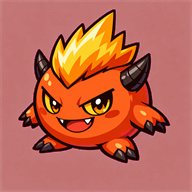
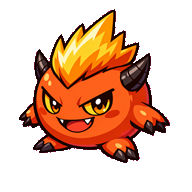
fix: GUOI 슬랙 릴리스(GOI 오마주) + 조작 HUD 인게임화 + foe-fire 배경 투명화 (푸시 금지)
GUOI: 걸쇠가 영구 유지돼 전진 이동이 불가능하던 문제 — Getting Over It 참조로
걸쇠를 "당기는 동안(자루 팽팽)"만 유지하도록 수정. 자루가 앵커 거리보다
길어지면(밀기·끌기·이동) 즉시 풀고 같은 프레임에 원본식 슬라이딩 접촉으로
복귀 — 밀기는 끊기지 않고, 당기기(윈치)와 스윙 릴리스(플릭)는 그대로.
실측: 걸기→윈치 4.1m(걸쇠 유지)→커서 빼면 해제·이동 가능.

전체화면 HUD: 조작 패널과 설명(foot)을 게임 화면 '안' 하단 오버레이로 —
반투명 그라데이션, 진짜 게임 HUD 구도 (사용자 피드백). 가려지던 스트리머 캠은
HUD 위로 이동.

주머니 괴수: foe-fire 스프라이트의 탁한 빨강 배경(생성이 마젠타 지시를 무시,
키잉 빗나감)을 테두리 연결 플러드필 키잉으로 투명화 — 몸통(붉은 계열)은
경계 연결이 없어 무손상.

diff --git a/games/shell/shell.css b/games/shell/shell.css
@@ -850,7 +850,7 @@ body.g-diaaura #viewport { outline: 2px solid rgba(125,232,255,.6); box-shadow: 
 /* 방송 중엔 창 크롬·플랫폼 톱바·정보줄·풋을 걷어내고 게임이 화면을 채운다.
    채팅은 게임 화면 우측에 반투명 오버레이로 얹힌다 (읽기 전용 — 클릭은 게임으로 통과).
    시청자 카운터·탤리·캠·리플레이 창은 뷰포트의 absolute 자식이라 그대로 확장된다. */
-body.fullshow #winbar, body.fullshow #topbar, body.fullshow #infoRow, body.fullshow #foot { display: none; }
+body.fullshow #winbar, body.fullshow #topbar, body.fullshow #infoRow { display: none; }
 body.fullshow #jgsWin {
   position: fixed; top: 0; left: 0; right: 0; bottom: 44px; z-index: 5;
   display: flex; flex-direction: column; border: none; border-radius: 0;
@@ -859,7 +859,17 @@ body.fullshow #stagewrap { flex: 1; min-height: 0; max-width: none; padding: 0; 
 body.fullshow #showRow { flex: 1; min-height: 0; }
 body.fullshow #viewport { position: absolute; inset: 0; border: none; outline: none; border-radius: 0; background: #000; box-shadow: none; }
 body.fullshow #scene { width: 100%; height: 100%; object-fit: contain; }
-body.fullshow #panel { background: rgba(16,18,20,.92); padding: 4px 10px; }
+/* 조작 패널·설명(foot)은 게임 화면 '안' 하단 오버레이 — 진짜 게임 HUD처럼 (사용자 피드백) */
+body.fullshow #panel {
+  position: fixed; left: 0; right: 300px; bottom: calc(44px + 40px); z-index: 6;
+  background: linear-gradient(rgba(16,18,20,0), rgba(16,18,20,.9) 34%);
+  padding: 10px 12px 6px;
+}
+body.fullshow #foot {
+  position: fixed; left: 0; right: 300px; bottom: 44px; z-index: 6; height: 40px;
+  overflow: hidden; background: rgba(11,12,14,.92);
+  font-size: 10.5px; line-height: 1.6; padding: 3px 12px; margin: 0;
+}
 body.fullshow #chatDock {
   top: 0; bottom: 44px; z-index: 6; pointer-events: none;
   background: linear-gradient(90deg, rgba(16,18,20,0), rgba(16,18,20,.68) 30%);
@@ -880,3 +890,5 @@ body.fullshow #donBanner.show { animation-name: doninFull; }
   84% { right: 314px; opacity: 1; }
   100% { right: 314px; opacity: 0; transform: translateY(-8px); }
 }
+/* 전체화면에선 하단 HUD(패널+풋)가 캠 자리를 덮는다 — 캠을 HUD 위로 올린다 */
+body.fullshow #camBox { bottom: 235px; }

diff --git a/games/giving-up/game.js b/games/giving-up/game.js
@@ -293,7 +293,15 @@
 
       if (st.planted) {
         var adx = st.anchorX - st.px, ady = st.anchorY - st.py, ad = Math.hypot(adx, ady) || 1;
-        if (dist >= 34 && (aimX * adx + aimY * ady) / ad < .45) { st.planted = false; st.contact = null; }
+        if (dist >= 34 && (aimX * adx + aimY * ady) / ad < .45) {
+          st.planted = false; st.contact = null; // 스윙 릴리스 — 크게 꺾으면 빠진다 (플릭)
+        } else if (st.len > ad + 10) {
+          // 슬랙 릴리스 (GOI 오마주 핵심) — 걸쇠는 "당기는 동안(자루 팽팽)"만 유지된다.
+          // 자루가 앵커 거리보다 길어지면(밀기·끌기·이동) 즉시 풀고 아래의 원본식
+          // 슬라이딩 접촉으로 복귀 — 같은 프레임에 재스윕되므로 밀기는 끊기지 않는다.
+          // 이게 없으면 갈고리가 영구히 걸려 전진 이동 자체가 불가능하다 (플레이 피드백).
+          st.planted = false; st.contact = null;
+        }
       }
 
       if (!st.planted) {
